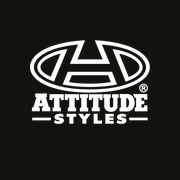
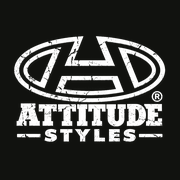
Refine store branding and checkout flow

Changed region(s): [[0.0556, 0.1944, 0.9167, 0.8056]]

diff --git a/js/admin.js b/js/admin.js
@@ -275,9 +275,9 @@
         <video id="reelPrev" class="mini-video" controls playsinline preload="metadata" ${W.reel ? `src="${esc(S.mediaURL(W.reel))}"` : 'style="display:none"'}></video></div></div>`;
     // paint preview through the shared logo logic using working value
     const prev = $("logoPrev"), applyLogo = () => {
-      prev.onerror = () => { prev.onerror = null; prev.src = S.ROOT + "assets/logo.png"; prev.setAttribute("data-invert", "1"); };
-      if (W.logo === S.DEFAULTS.logo || !S.mediaURL(W.logo)) { prev.src = S.ROOT + "assets/logo.png"; prev.setAttribute("data-invert", "1"); }
-      else { prev.removeAttribute("data-invert"); prev.src = S.mediaURL(W.logo); }
+      prev.onerror = () => { prev.onerror = null; prev.src = S.defaultLogoURL(); };
+      if (W.logo === S.DEFAULTS.logo || !S.mediaURL(W.logo)) prev.src = S.defaultLogoURL();
+      else prev.src = S.mediaURL(W.logo);
     };
     applyLogo();
     $("logoFile").onchange = e => { const f = e.target.files[0]; if (!f) return; guard("Processing logo\u2026", async () => { W.logo = await uploadImage(f, 800, true); touch(); renderView(); }); };
@@ -550,7 +550,7 @@
     if (!$("asheet")) return;
     $("asheet").innerHTML = `<div class="admin-layout">
       <aside class="admin-sidebar">
-        <div class="admin-brand-wrap"><img class="admin-logo" data-logo alt="Attitude Styles logo"><div><p class="eyebrow">Store manager</p><h2>Attitude Styles</h2></div></div>
+        <div class="admin-brand-wrap"><img class="admin-logo" data-logo data-logo-mark alt="Attitude Styles logo"><div><p class="eyebrow">Store manager</p><h2>Attitude Styles</h2></div></div>
         <nav class="admin-nav" aria-label="Admin sections">
           ${Object.keys(TITLES).map(k => `<button class="nav-section" type="button" data-tab="${k}">${k === "media" ? "Logo &amp; media" : TITLES[k].replace("Admin overview", "Overview")}</button>`).join("")}
         </nav>
@@ -580,8 +580,9 @@
     };
     // paint the logo in the sidebar without touching the shop grid
     const lg = document.querySelector(".admin-logo");
-    if (lg) { lg.onerror = () => { lg.onerror = null; lg.src = S.ROOT + "assets/logo.png"; lg.setAttribute("data-invert", "1"); };
-      if (S.data.logo === S.DEFAULTS.logo || !S.mediaURL(S.data.logo)) { lg.src = S.ROOT + "assets/logo.png"; lg.setAttribute("data-invert", "1"); } else lg.src = S.mediaURL(S.data.logo); }
+    if (lg) { lg.onerror = () => { lg.onerror = null; lg.src = S.defaultLogoURL(true); };
+      if (S.data.logo === S.DEFAULTS.logo || !S.mediaURL(S.data.logo)) lg.src = S.defaultLogoURL(true);
+      else lg.src = S.mediaURL(S.data.logo); }
     tab = "overview"; expandedProducts = new Set(); renderView();
     $("av").classList.add("open");
   }

diff --git a/js/store.js b/js/store.js
@@ -5,6 +5,13 @@
 const ROOT = window.SITE_ROOT || "";                       // "" on the home page, "../" in sub-folders
 const DEFAULTS = JSON.parse(JSON.stringify(window.STORE_DATA));
 let DATA = window.STORE_DATA;
+const isDarkTheme = () => {
+  const theme = document.documentElement.getAttribute("data-theme");
+  return theme ? theme === "dark" : window.matchMedia("(prefers-color-scheme: dark)").matches;
+};
+const defaultLogoURL = (mark = false) => ROOT + "assets/" + (mark
+  ? (isDarkTheme() ? "logo-mark.png" : "logo-mark-dark.png")
+  : (isDarkTheme() ? "logo.png" : "logo-dark.png"));
 
 const $ = id => document.getElementById(id);
 const esc = s => String(s == null ? "" : s).replace(/[&<>"']/g, c => ({ "&": "&amp;", "<": "&lt;", ">": "&gt;", '"': "&quot;", "'": "&#39;" }[c]));
@@ -103,10 +110,10 @@ function stockInfo(p) {
 function renderCommon() {
   // Logo everywhere (header, hero, admin, contact...). Falls back to the bundled logo if a custom one fails.
   document.querySelectorAll("img[data-logo]").forEach(img => {
-    const setDefault = () => { img.onerror = null; img.src = ROOT + "assets/logo.png"; img.setAttribute("data-invert", "1"); };
+    const setDefault = () => { img.onerror = null; img.src = defaultLogoURL(img.hasAttribute("data-logo-mark")); };
     img.onerror = setDefault;
     const u = isDefaultLogo() ? "" : mediaURL(DATA.logo);
-    if (u) { img.removeAttribute("data-invert"); img.src = u; } else setDefault();
+    if (u) img.src = u; else setDefault();
   });
   // Every WhatsApp button/link on every page
   document.querySelectorAll("a[data-wa]").forEach(a => {
@@ -475,6 +482,7 @@ if (themeToggle) {
     root.setAttribute("data-theme", n);
     try { localStorage.setItem("attitude-theme", n); } catch (e) {}
     applyIcon();
+    renderCommon();
   };
 }
 
@@ -526,7 +534,7 @@ async function init() {
 }
 
 window.Store = {
-  ROOT, DEFAULTS, esc, fmt, toast, mediaURL, saveMedia, persist, resetToDefaults, renderAll, waNumber,
+  ROOT, DEFAULTS, esc, fmt, toast, mediaURL, defaultLogoURL, saveMedia, persist, resetToDefaults, renderAll, waNumber,
   get data() { return DATA; },
   set data(d) { DATA = d; window.STORE_DATA = d; },
 };

diff --git a/css/style.css b/css/style.css
@@ -16,9 +16,6 @@ header{position:sticky;top:0;z-index:30;padding-top:calc(env(safe-area-inset-top
 .hbar{display:flex;align-items:center;justify-content:space-between;padding:8px 0 12px;gap:12px;flex-wrap:nowrap}
 .brand{display:flex;align-items:center;gap:8px;text-decoration:none;min-width:0;flex:1 1 auto;overflow:hidden;color:var(--ink)}
 .brand img{height:30px;width:auto;flex:none;object-fit:contain}
-img[data-invert]{filter:invert(1)}
-:root[data-theme="dark"] img[data-invert]{filter:none}
-@media(prefers-color-scheme:dark){:root:not([data-theme="light"]) img[data-invert]{filter:none}}
 .brand span{font-family:'Anton';font-size:15px;letter-spacing:.03em;white-space:nowrap;overflow:hidden;text-overflow:ellipsis}
 .top-nav{display:flex;align-items:center;gap:10px;font-size:13.5px;font-weight:500;flex-wrap:nowrap;flex:none;padding:5px 8px;border:1px solid var(--line);border-radius:999px;background:color-mix(in srgb, var(--card) 88%, var(--bg));box-shadow:0 8px 16px var(--shadow)}
 nav a{text-decoration:none;opacity:.9;cursor:pointer;white-space:nowrap;color:var(--ink)}

diff --git a/about/index.html b/about/index.html
@@ -16,7 +16,7 @@
 <body>
 <div class="announce" id="announceBar" style="display:none"></div>
 <header><div class="wrap hbar">
-  <a class="brand" href="../index.html" aria-label="Attitude Styles home"><img data-logo alt="Attitude Styles logo" width="40" height="34"><span>ATTITUDE STYLES</span></a>
+  <a class="brand" href="../index.html" aria-label="Attitude Styles home"><img data-logo data-logo-mark alt="Attitude Styles emblem" width="40" height="34"><span>ATTITUDE STYLES</span></a>
   <nav class="top-nav" aria-label="Main navigation">
     <button class="nav-icon-btn" id="searchToggle" type="button" aria-label="Search merch" title="Search products">
       <svg viewBox="0 0 24 24" aria-hidden="true"><circle cx="11" cy="11" r="7.5"/><path d="m16.5 16.5 4 4"/></svg>

diff --git a/contact/index.html b/contact/index.html
@@ -16,7 +16,7 @@
 <body>
 <div class="announce" id="announceBar" style="display:none"></div>
 <header><div class="wrap hbar">
-  <a class="brand" href="../index.html" aria-label="Attitude Styles home"><img data-logo alt="Attitude Styles logo" width="40" height="34"><span>ATTITUDE STYLES</span></a>
+  <a class="brand" href="../index.html" aria-label="Attitude Styles home"><img data-logo data-logo-mark alt="Attitude Styles emblem" width="40" height="34"><span>ATTITUDE STYLES</span></a>
   <nav class="top-nav" aria-label="Main navigation">
     <button class="nav-icon-btn" id="searchToggle" type="button" aria-label="Search merch" title="Search products">
       <svg viewBox="0 0 24 24" aria-hidden="true"><circle cx="11" cy="11" r="7.5"/><path d="m16.5 16.5 4 4"/></svg>

diff --git a/gallery/index.html b/gallery/index.html
@@ -16,7 +16,7 @@
 <body>
 <div class="announce" id="announceBar" style="display:none"></div>
 <header><div class="wrap hbar">
-  <a class="brand" href="../index.html" aria-label="Attitude Styles home"><img data-logo alt="Attitude Styles logo" width="40" height="34"><span>ATTITUDE STYLES</span></a>
+  <a class="brand" href="../index.html" aria-label="Attitude Styles home"><img data-logo data-logo-mark alt="Attitude Styles emblem" width="40" height="34"><span>ATTITUDE STYLES</span></a>
   <nav class="top-nav" aria-label="Main navigation">
     <button class="nav-icon-btn" id="searchToggle" type="button" aria-label="Search merch" title="Search products">
       <svg viewBox="0 0 24 24" aria-hidden="true"><circle cx="11" cy="11" r="7.5"/><path d="m16.5 16.5 4 4"/></svg>

diff --git a/shop/index.html b/shop/index.html
@@ -16,7 +16,7 @@
 <body>
 <div class="announce" id="announceBar" style="display:none"></div>
 <header><div class="wrap hbar">
-  <a class="brand" href="../index.html" aria-label="Attitude Styles home"><img data-logo alt="Attitude Styles logo" width="40" height="34"><span>ATTITUDE STYLES</span></a>
+  <a class="brand" href="../index.html" aria-label="Attitude Styles home"><img data-logo data-logo-mark alt="Attitude Styles emblem" width="40" height="34"><span>ATTITUDE STYLES</span></a>
   <nav class="top-nav" aria-label="Main navigation">
     <button class="nav-icon-btn" id="searchToggle" type="button" aria-label="Search merch" title="Search products">
       <svg viewBox="0 0 24 24" aria-hidden="true"><circle cx="11" cy="11" r="7.5"/><path d="m16.5 16.5 4 4"/></svg>

diff --git a/shop/product.html b/shop/product.html
@@ -16,7 +16,7 @@
 <body>
 <div class="announce" id="announceBar" style="display:none"></div>
 <header><div class="wrap hbar">
-  <a class="brand" href="../index.html" aria-label="Attitude Styles home"><img data-logo alt="Attitude Styles logo" width="40" height="34"><span>ATTITUDE STYLES</span></a>
+  <a class="brand" href="../index.html" aria-label="Attitude Styles home"><img data-logo data-logo-mark alt="Attitude Styles emblem" width="40" height="34"><span>ATTITUDE STYLES</span></a>
   <nav class="top-nav" aria-label="Main navigation">
     <button class="nav-icon-btn" id="searchToggle" type="button" aria-label="Search merch" title="Search products">
       <svg viewBox="0 0 24 24" aria-hidden="true"><circle cx="11" cy="11" r="7.5"/><path d="m16.5 16.5 4 4"/></svg>

diff --git a/index.html b/index.html
@@ -16,7 +16,7 @@
 <body>
 <div class="announce" id="announceBar" style="display:none"></div>
 <header><div class="wrap hbar">
-  <a class="brand" href="index.html" aria-label="Attitude Styles home"><img data-logo alt="Attitude Styles logo" width="40" height="34"><span>ATTITUDE STYLES</span></a>
+  <a class="brand" href="index.html" aria-label="Attitude Styles home"><img data-logo data-logo-mark alt="Attitude Styles emblem" width="40" height="34"><span>ATTITUDE STYLES</span></a>
   <nav class="top-nav" aria-label="Main navigation">
     <button class="nav-icon-btn" id="searchToggle" type="button" aria-label="Search merch" title="Search products">
       <svg viewBox="0 0 24 24" aria-hidden="true"><circle cx="11" cy="11" r="7.5"/><path d="m16.5 16.5 4 4"/></svg>
